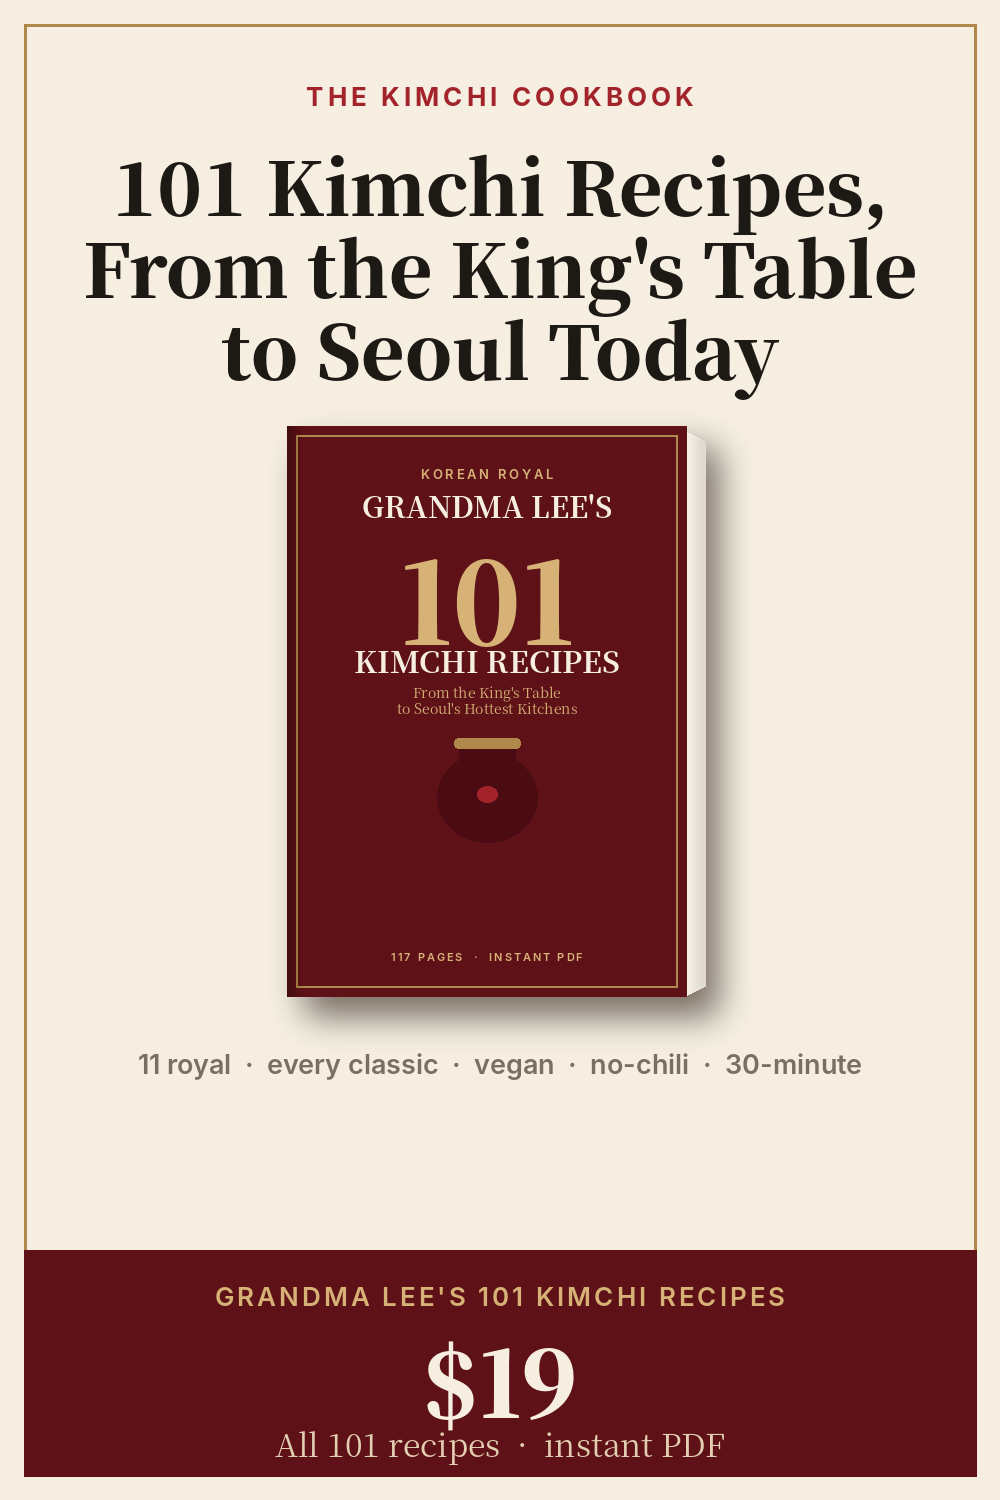
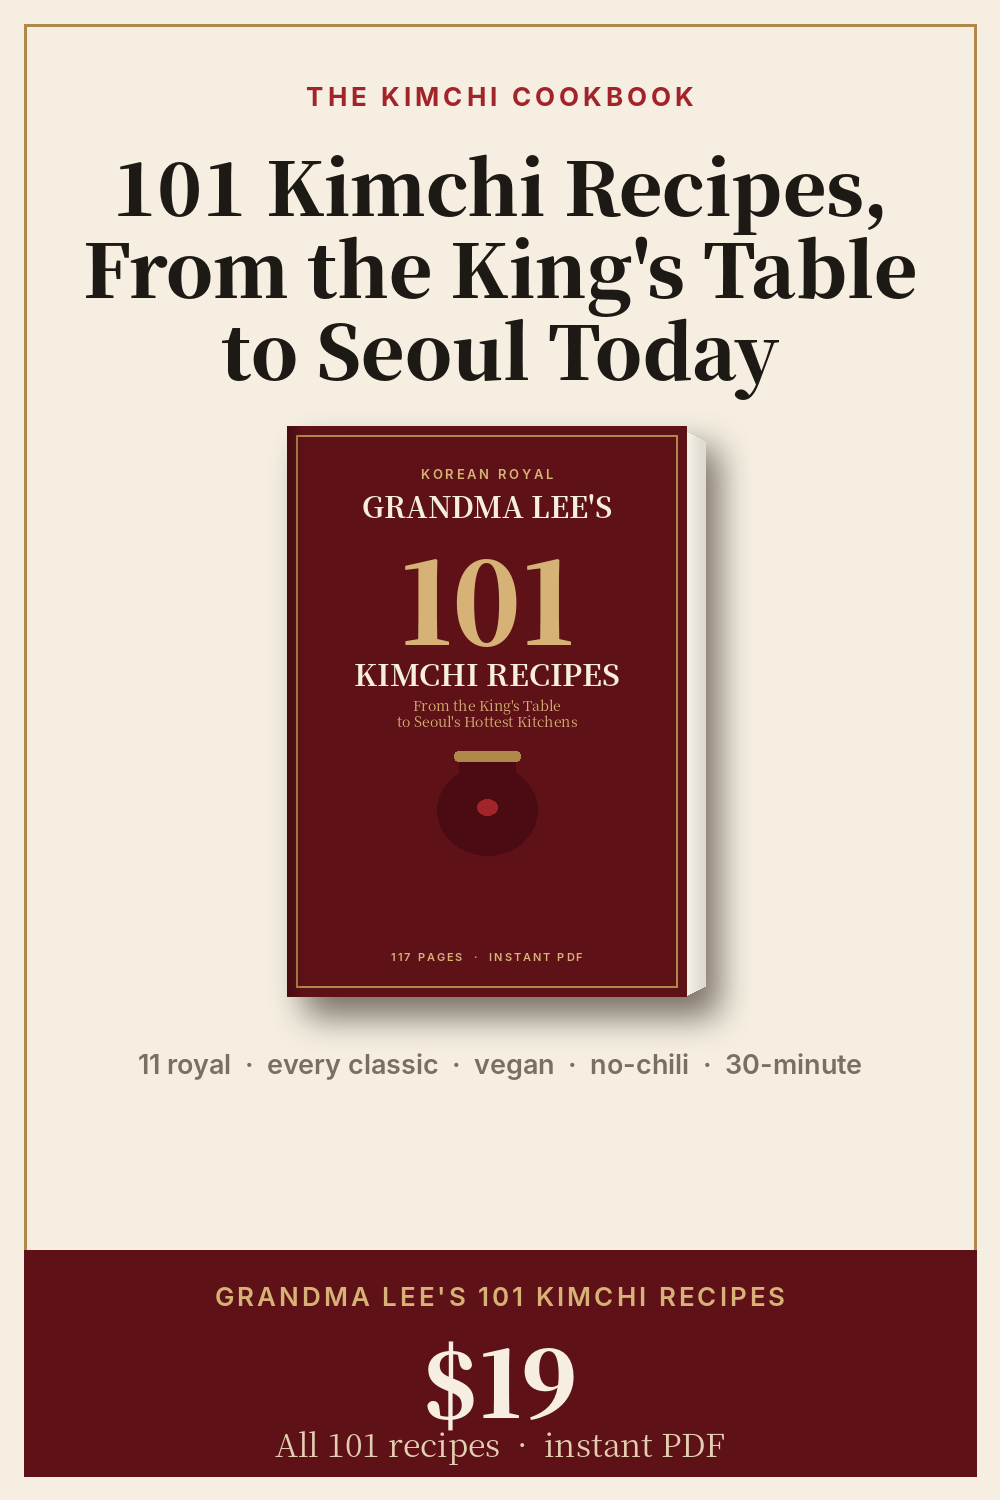
Fix cover title spacing on product pins
Claude-Session: https://claude.ai/code/session_01BrWsGfW4hLKJLxYdjc2ZBy

Changed region(s): [[0.341, 0.4293, 0.62, 0.552]]

diff --git a/tools/kimchi/make_sales.py b/tools/kimchi/make_sales.py
@@ -76,7 +76,7 @@ def cover(cw=600, ch=857):
     d.rectangle([14 * k, 14 * k, cw - 14 * k, ch - 14 * k], outline=GOLD, width=max(2, int(2 * k)))
     y = ctext(d, 60 * k, ["KOREAN ROYAL"], F(INTER, 20 * k), GOLD2, cx=cw / 2, track=4 * k)
     y = ctext(d, y + 4 * k, ["GRANDMA LEE'S"], F(SERIF, 44 * k), PAPER, cx=cw / 2)
-    y = ctext(d, y - 6 * k, ["101"], F(SERIFB, 170 * k), GOLD2, lh=1.08, cx=cw / 2)
+    y = ctext(d, y - 6 * k, ["101"], F(SERIFB, 170 * k), GOLD2, lh=1.2, cx=cw / 2)
     y = ctext(d, y + 4 * k, ["KIMCHI RECIPES"], F(SERIF, 46 * k), PAPER, cx=cw / 2)
     y = ctext(d, y + 10 * k, ["From the King's Table", "to Seoul's Hottest Kitchens"], F(SERIFR, 22 * k), GOLD2, cx=cw / 2)
     jar(d, cw / 2, y + 40 * k, 150 * k, DEEP2, GOLD)
